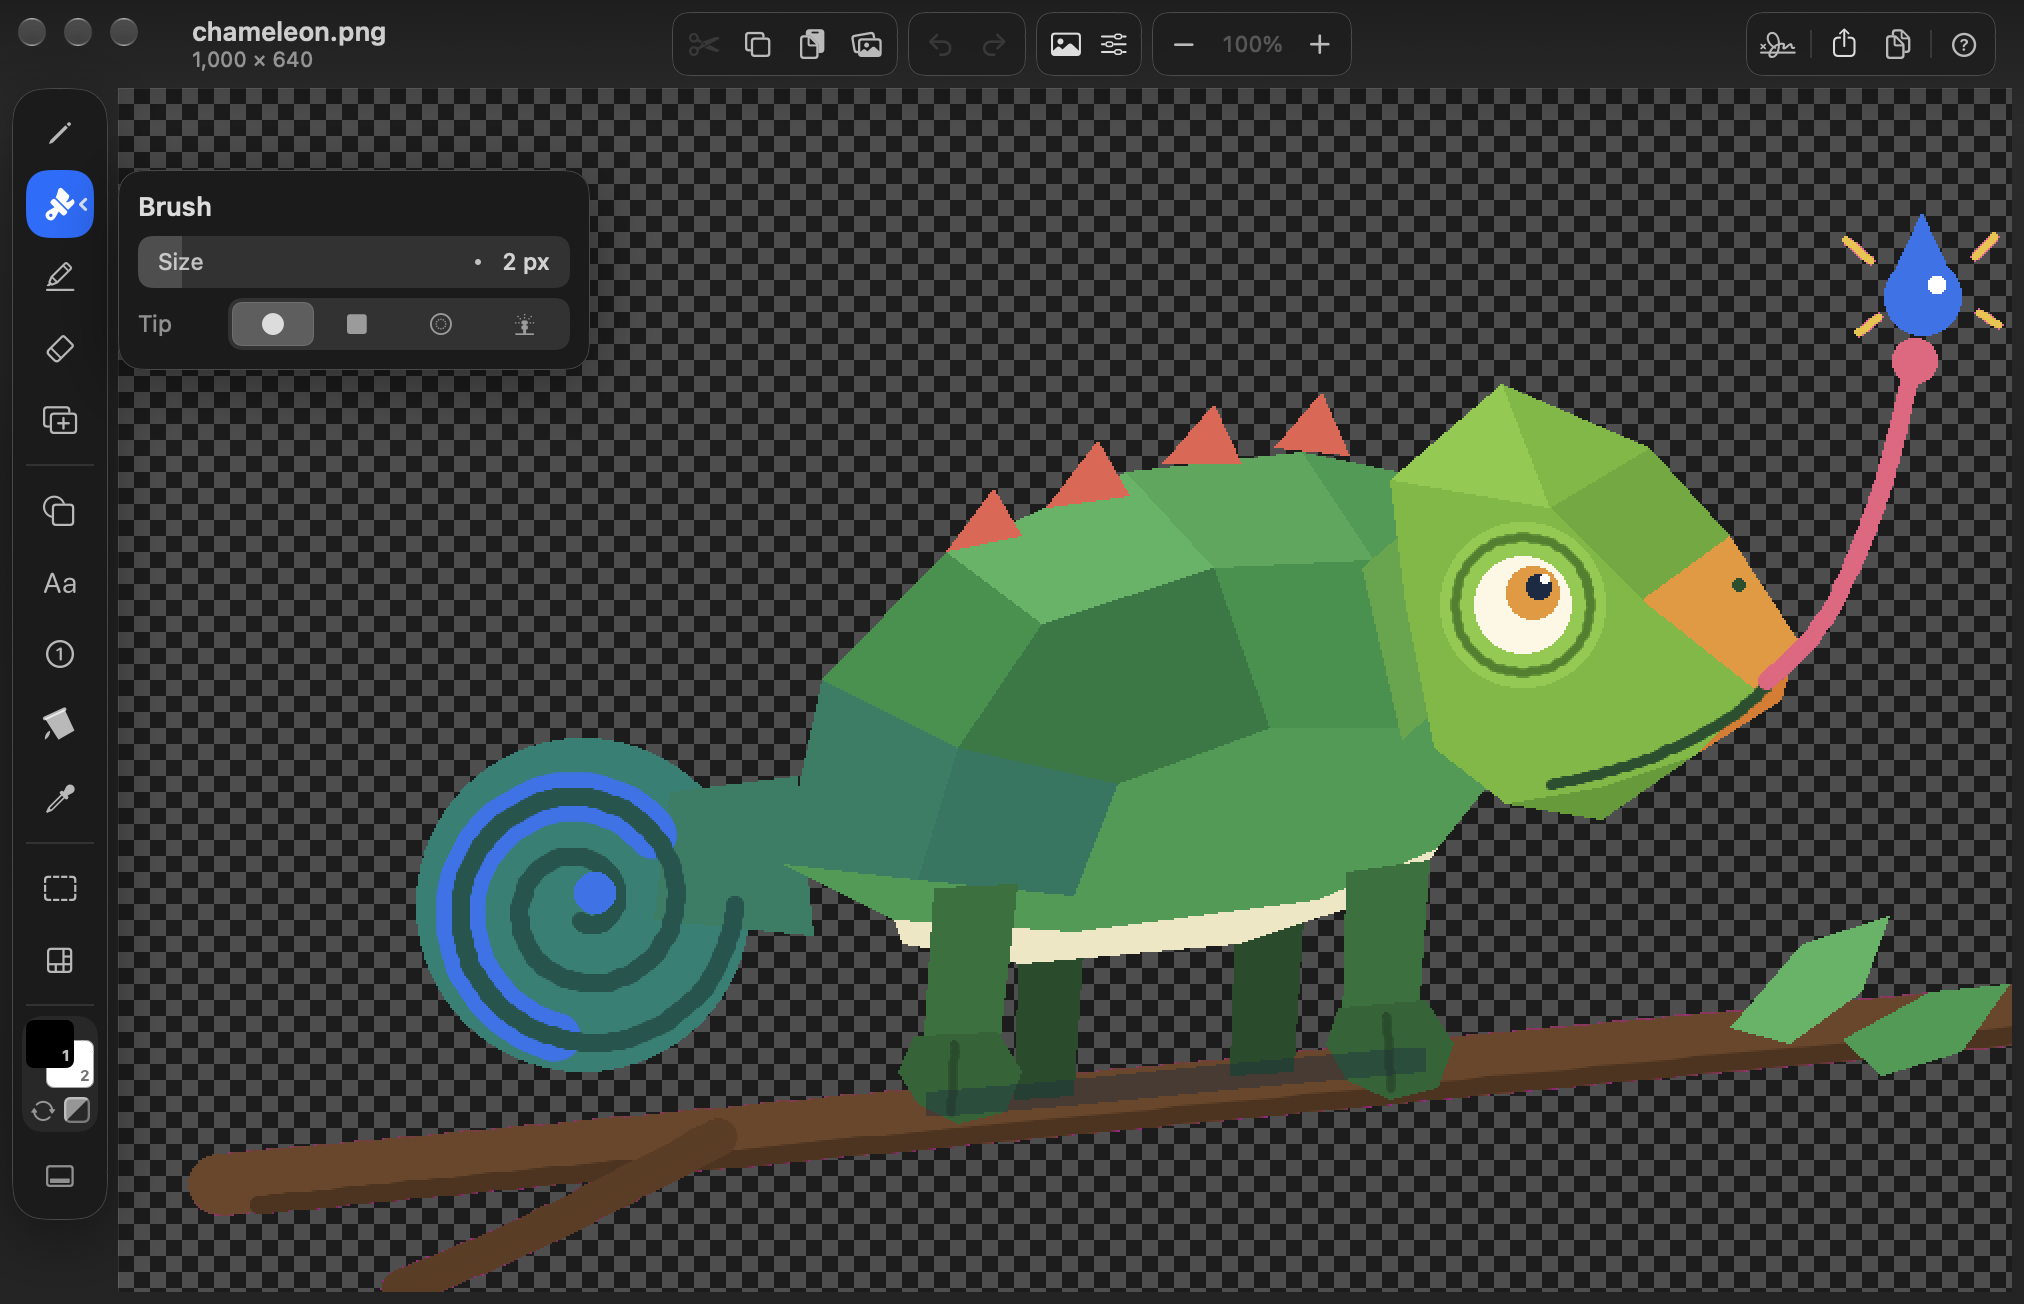
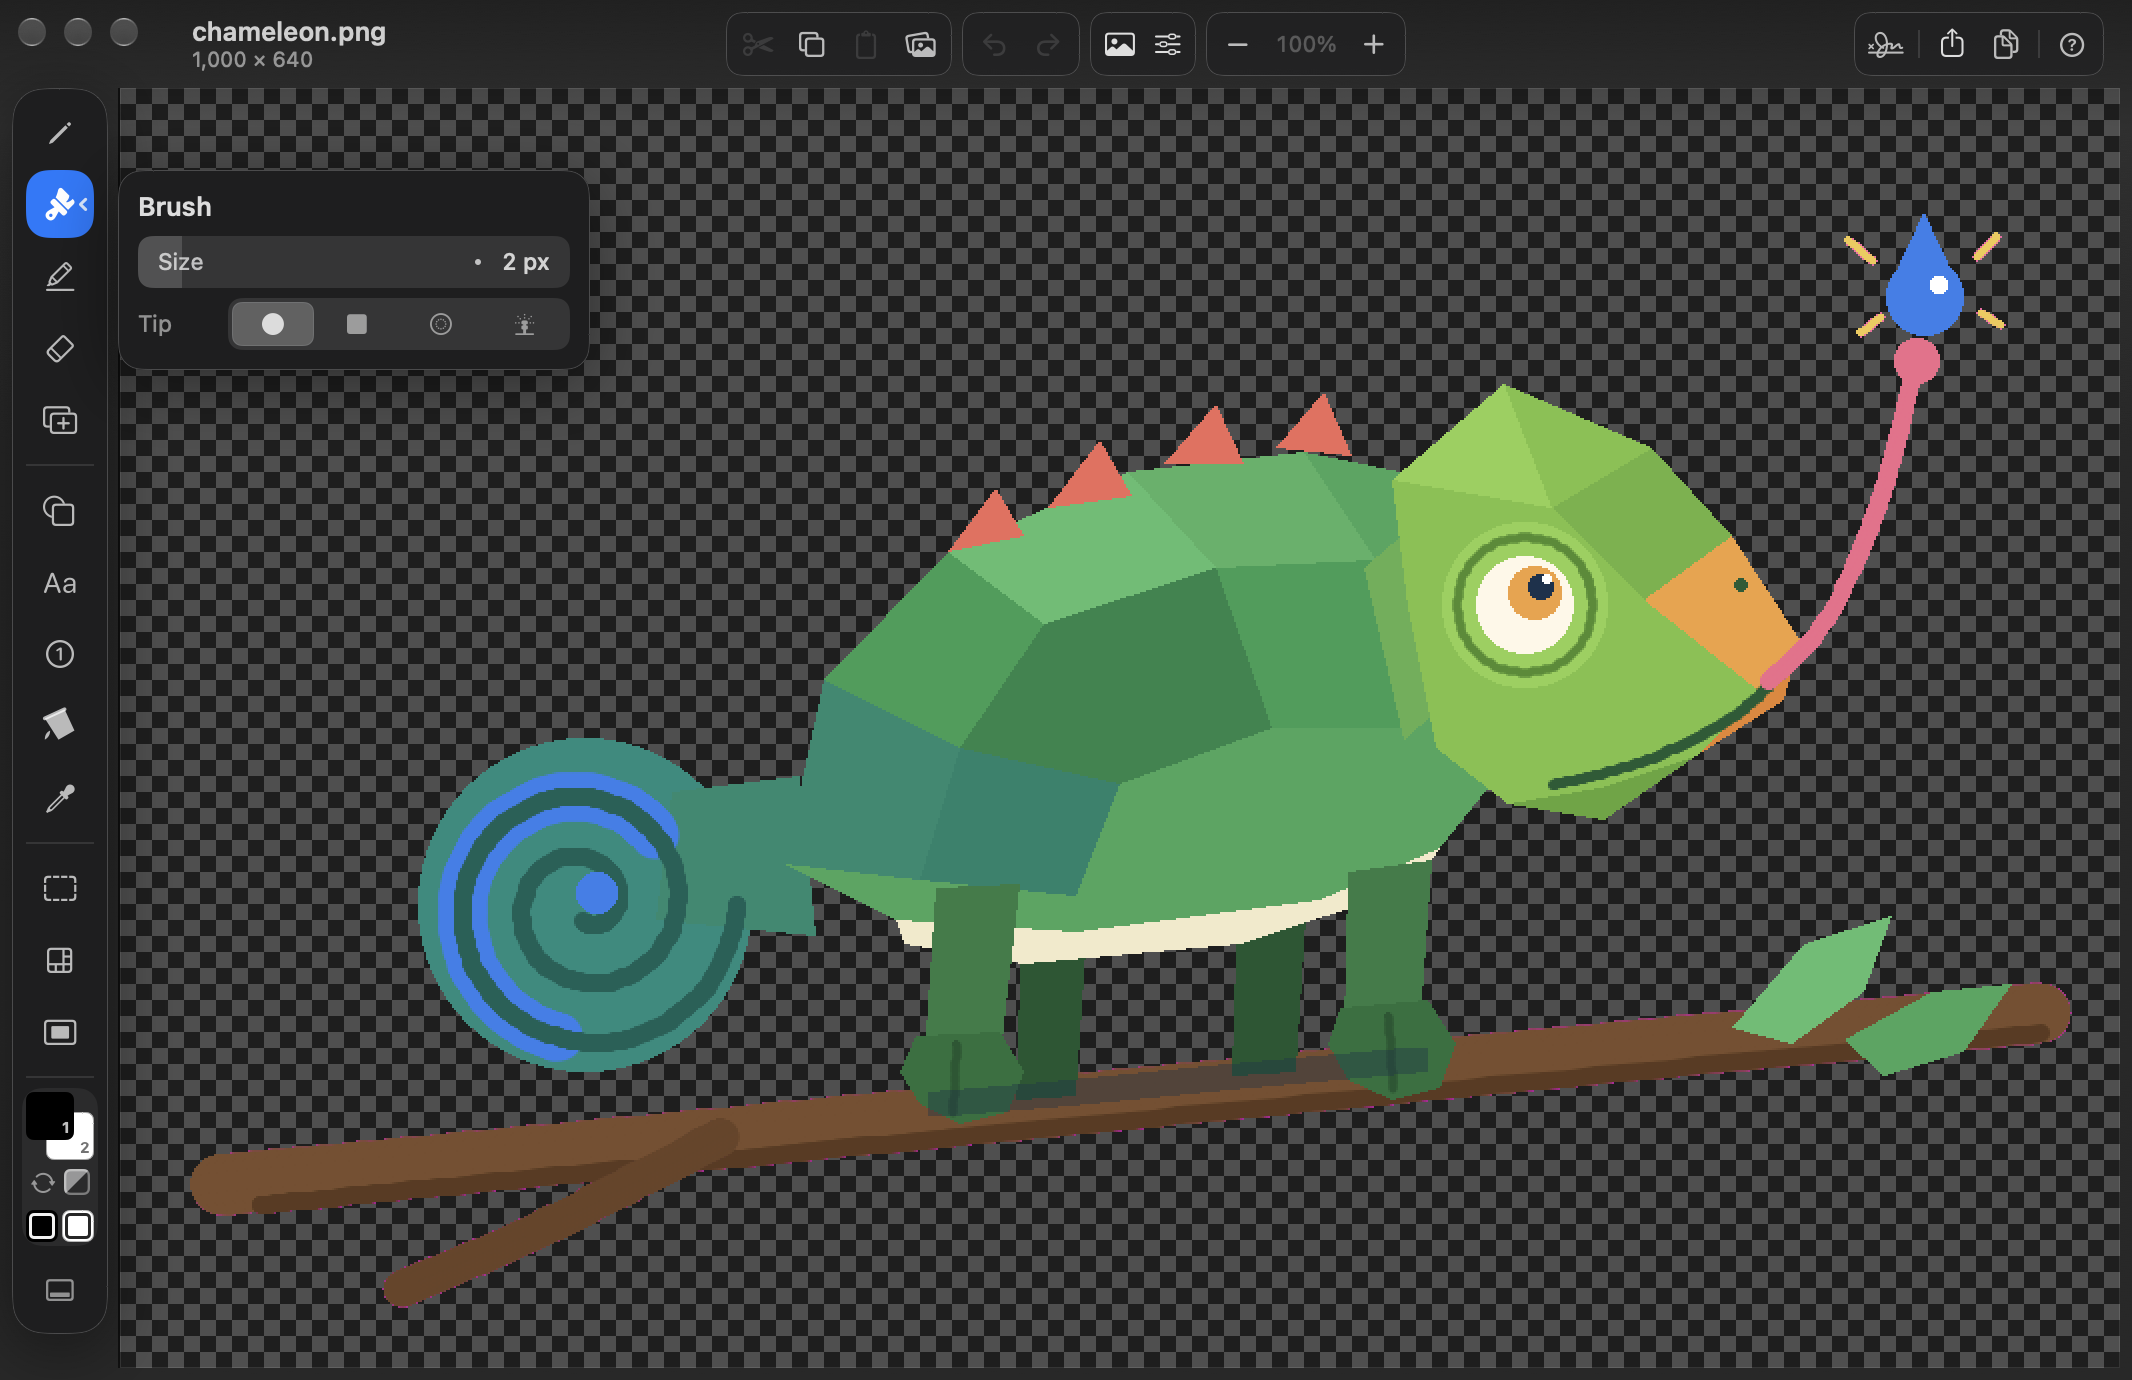
docs: 0.25.0's size, pin and window shots (#71)
* docs: 3.79 MB and from: 0.25.0, after the release

* Re-render the window shots at actual size, after #69

#67 rendered these before #69 merged, so all three show the window
that shrank the picture to 94%. Same captures, from main: side rail,
dark, -AppleShowScrollBars WhenScrolling. Each window is now 54x38pt
larger and opens at 100%.

---------

diff --git a/README.md b/README.md
@@ -8,7 +8,7 @@
 
 # ItsPaint
 
-### MS Paint for the Mac, in a 3.75 MB download
+### MS Paint for the Mac, in a 3.79 MB download
 
 Take or paste a screenshot, number the steps and drag the finished image into a bug report or a doc.
 
@@ -48,7 +48,7 @@ and it supports macOS 12 and iOS 15 and later. CI runs the engine's tests on an 
 simulator as well as the Mac.
 
 ```swift
-.package(url: "https://github.com/joshlin2201/itspaint", from: "0.24.0")
+.package(url: "https://github.com/joshlin2201/itspaint", from: "0.25.0")
 ```
 
 [![Swift versions](https://img.shields.io/endpoint?url=https%3A%2F%2Fswiftpackageindex.com%2Fapi%2Fpackages%2Fjoshlin2201%2Fitspaint%2Fbadge%3Ftype%3Dswift-versions)](https://swiftpackageindex.com/joshlin2201/itspaint)
@@ -163,7 +163,7 @@ Or open the [disk image](https://github.com/joshlin2201/itspaint/releases) and d
 | **Requires** | macOS 14 Sonoma or later |
 | **Architecture** | Universal, for Apple silicon and Intel |
 | **Signing** | Developer ID and notarised, with the ticket stapled to the disk image and the app, so Gatekeeper can check it offline |
-| **Download** | 3.75 MB, with SHA-256 sums in `checksums.txt` |
+| **Download** | 3.79 MB, with SHA-256 sums in `checksums.txt` |
 
 ```bash
 shasum -a 256 -c checksums.txt
